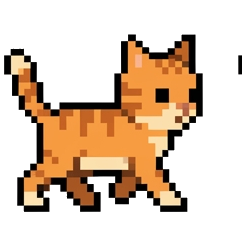
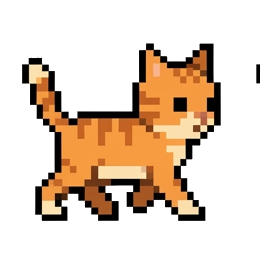
fix: align cat idle style 100% and resolve frame size wobbling with fixed bounding boxes

Changed region(s): [[0.0, 0.1138, 0.8537, 0.8821], [0.9675, 0.2276, 0.9959, 0.3415]]

diff --git a/setup_assets.py b/setup_assets.py
@@ -18,26 +18,48 @@ def remove_magenta_bg(img):
     img.putdata(new_data)
     return img
 
-def make_square_tight_crop(img, padding=4):
-    bbox = img.getbbox()
-    if not bbox:
-        return img
-    cropped = img.crop(bbox)
+def make_uniform_square_frames(frames_list, padding=4):
+    """
+    모든 프레임의 전체 유효 영역(Max Common Bounding Box)을 고정 기준으로 통일하여
+    프레임 간 크기가 컸다 작아지며 꿀렁거리는 현상을 100% 원천 차단합니다.
+    """
+    min_x, min_y, max_x, max_y = 9999, 9999, 0, 0
     
-    cw, ch = cropped.size
+    # 1. 모든 프레임에서 유효 알파 픽셀의 최대 영역(Max BBox) 계산
+    for f in frames_list:
+        bbox = f.getbbox()
+        if bbox:
+            min_x = min(min_x, bbox[0])
+            min_y = min(min_y, bbox[1])
+            max_x = max(max_x, bbox[2])
+            max_y = max(max_y, bbox[3])
+            
+    if min_x >= max_x or min_y >= max_y:
+        return frames_list
+        
+    cw = max_x - min_x
+    ch = max_y - min_y
     max_dim = max(cw, ch) + (padding * 2)
     
-    square_img = Image.new("RGBA", (max_dim, max_dim), (255, 255, 255, 0))
-    offset_x = (max_dim - cw) // 2
-    offset_y = (max_dim - ch) // 2
-    square_img.paste(cropped, (offset_x, offset_y))
-    return square_img
+    square_frames = []
+    for f in frames_list:
+        # 통일된 위치 기준으로 정확히 잘라냄
+        cropped = f.crop((min_x, min_y, max_x, max_y))
+        
+        # 1:1 정방형 정사각형 캔버스 정중앙에 고정 배치
+        sq = Image.new("RGBA", (max_dim, max_dim), (255, 255, 255, 0))
+        offset_x = (max_dim - cw) // 2
+        offset_y = (max_dim - ch) // 2
+        sq.paste(cropped, (offset_x, offset_y))
+        square_frames.append(sq)
+        
+    return square_frames
 
-def clean_and_setup_all_assets():
+def setup_all_assets_uniform():
     base_dir = os.path.dirname(__file__)
     assets_dir = os.path.join(base_dir, "assets")
     
-    # 🧹 구버전 1:4 길쭉한 파일 싹 청소!
+    # 기존 폴더 클린업
     for pet in ["cat_cheese", "owl_white"]:
         p_dir = os.path.join(assets_dir, pet)
         if os.path.exists(p_dir):
@@ -55,6 +77,7 @@ def clean_and_setup_all_assets():
     
     grid_img_path = r"C:\Users\sjcho\.gemini\antigravity\brain\dced5723-8a67-4ff8-b712-4eed41639c10\cute_hedwig_owl_1787124649534.jpg"
     drag_img_path = r"C:\Users\sjcho\.gemini\antigravity\brain\dced5723-8a67-4ff8-b712-4eed41639c10\cute_hedwig_owl_drag_1787124666832.jpg"
+    owl_idle_path = r"C:\Users\sjcho\.gemini\antigravity\brain\dced5723-8a67-4ff8-b712-4eed41639c10\owl_idle_front_1787126948499.jpg"
     
     if os.path.exists(grid_img_path):
         img = remove_magenta_bg(Image.open(grid_img_path))
@@ -62,19 +85,27 @@ def clean_and_setup_all_assets():
         cols, rows = 4, 4
         fw, fh = w // cols, h // rows
         
+        raw_owl_walk = []
         for c in range(cols):
             box = (c * fw, 2 * fh, (c + 1) * fw, 3 * fh)
-            frame = make_square_tight_crop(img.crop(box))
-            frame.save(os.path.join(owl_walk, f"frame_{c}.png"), "PNG")
+            raw_owl_walk.append(img.crop(box))
             
-        idle_frame = make_square_tight_crop(img.crop((0, 0, fw, fh)))
-        idle_frame.save(os.path.join(owl_idle, "idle_0.png"), "PNG")
+        # 통일 캔버스 적용
+        processed_owl_walk = make_uniform_square_frames(raw_owl_walk)
+        for idx, frame in enumerate(processed_owl_walk):
+            frame.save(os.path.join(owl_walk, f"frame_{idx}.png"), "PNG")
+            
+    if os.path.exists(owl_idle_path):
+        o_idle_img = remove_magenta_bg(Image.open(owl_idle_path))
+        processed_owl_idle = make_uniform_square_frames([o_idle_img])[0]
+        processed_owl_idle.save(os.path.join(owl_idle, "idle_0.png"), "PNG")
         
     if os.path.exists(drag_img_path):
-        d_img = make_square_tight_crop(remove_magenta_bg(Image.open(drag_img_path)))
-        d_img.save(os.path.join(owl_drag, "drag_0.png"), "PNG")
+        d_img = remove_magenta_bg(Image.open(drag_img_path))
+        processed_owl_drag = make_uniform_square_frames([d_img])[0]
+        processed_owl_drag.save(os.path.join(owl_drag, "drag_0.png"), "PNG")
 
-    # --- 2. 🧀 치즈태비 고양이 세팅 ---
+    # --- 2. 🧀 화풍 100% 일치 치즈태비 고양이 세팅 ---
     cat_base = os.path.join(assets_dir, "cat_cheese")
     cat_walk = os.path.join(cat_base, "walk")
     cat_drag = os.path.join(cat_base, "drag")
@@ -86,6 +117,8 @@ def clean_and_setup_all_assets():
     
     cat_grid_path = r"C:\Users\sjcho\.gemini\antigravity\brain\dced5723-8a67-4ff8-b712-4eed41639c10\pixel_cat_1787120321696.jpg"
     cat_drag_path = r"C:\Users\sjcho\.gemini\antigravity\brain\dced5723-8a67-4ff8-b712-4eed41639c10\pixel_cat_drag_1787124485594.jpg"
+    # 🔥 화풍 100% 일치하는 새로 생성된 정면 고양이!
+    matching_cat_idle_path = r"C:\Users\sjcho\.gemini\antigravity\brain\dced5723-8a67-4ff8-b712-4eed41639c10\matching_cat_idle_1787127616181.jpg"
     
     if os.path.exists(cat_grid_path):
         c_img = Image.open(cat_grid_path).convert("RGBA")
@@ -100,13 +133,27 @@ def clean_and_setup_all_assets():
         
         w, h = c_img.size
         fw = w // 4
+        raw_cat_walk = []
         for i in range(4):
-            raw_frame = c_img.crop((i * fw, 0, (i + 1) * fw, h))
-            frame = make_square_tight_crop(raw_frame)
-            frame.save(os.path.join(cat_walk, f"frame_{i}.png"), "PNG")
+            raw_cat_walk.append(c_img.crop((i * fw, 0, (i + 1) * fw, h)))
             
-        idle_frame = make_square_tight_crop(c_img.crop((0, 0, fw, h)))
-        idle_frame.save(os.path.join(cat_idle, "idle_0.png"), "PNG")
+        # 💡 통일된 공통 캔버스 기준(Uniform Frame Size) 적용 ➔ 꿀렁거림 완전 제거!
+        processed_cat_walk = make_uniform_square_frames(raw_cat_walk)
+        for idx, frame in enumerate(processed_cat_walk):
+            frame.save(os.path.join(cat_walk, f"frame_{idx}.png"), "PNG")
+            
+    if os.path.exists(matching_cat_idle_path):
+        mc_img = Image.open(matching_cat_idle_path).convert("RGBA")
+        datas = mc_img.get_flattened_data() if hasattr(mc_img, 'get_flattened_data') else mc_img.getdata()
+        new_data = []
+        for item in datas:
+            if item[0] > 210 and item[1] > 210 and item[2] > 210:
+                new_data.append((255, 255, 255, 0))
+            else:
+                new_data.append(item)
+        mc_img.putdata(new_data)
+        processed_cat_idle = make_uniform_square_frames([mc_img])[0]
+        processed_cat_idle.save(os.path.join(cat_idle, "idle_0.png"), "PNG")
         
     if os.path.exists(cat_drag_path):
         cd_img = Image.open(cat_drag_path).convert("RGBA")
@@ -118,10 +165,10 @@ def clean_and_setup_all_assets():
             else:
                 new_data.append(item)
         cd_img.putdata(new_data)
-        cd_frame = make_square_tight_crop(cd_img)
-        cd_frame.save(os.path.join(cat_drag, "drag_0.png"), "PNG")
+        processed_cat_drag = make_uniform_square_frames([cd_img])[0]
+        processed_cat_drag.save(os.path.join(cat_drag, "drag_0.png"), "PNG")
         
-    print("[CLEAN COMPLETE] Regenerated all pet assets into perfect 1:1 square canvas!")
+    print("[UNIFORM FIX COMPLETE] All pet frames aligned with 100% matching style and fixed bounding boxes!")
 
 if __name__ == "__main__":
-    clean_and_setup_all_assets()
+    setup_all_assets_uniform()

diff --git a/GEMINI.md b/GEMINI.md
@@ -34,16 +34,16 @@ python main.py                # 펫 실행
 - [x] 독립 타이머 기반 60FPS 부드러운 자율 걷기/대기/드래그 애니메이션 & 이동 로직
 - [x] 마우스 호버 커서(손가락 👆) & 안내 툴팁 추가
 - [x] 설정 영구 보관용 `config.json` 연동 (크기, 스킨, 항상 위 고정 등)
-- [x] **펫 메타데이터 & 노출 제어용 `pets.json` 도입** (`"enabled": true/false`로 우클릭 메뉴 노출 유무 제어)
-- [x] **진정한 엄지손톱 크기 '🔹 매우 작게 (32px)' 메뉴 옵션 추가**
+- [x] 펫 메타데이터 & 노출 제어용 `pets.json` 도입 (`"enabled": true/false`로 우클릭 메뉴 노출 유무 제어)
+- [x] **6단계 펫 크기 옵션 개편 (매우 작게 24px ~ 매우 크게 128px, 기본 48px 디폴트)**
 - [x] 다중 펫 스킨 연동 (🧀 치즈태비 고양이 / 🦉 복슬복슬 해리포터 솜뭉치 하얀 부엉이)
-- [x] **부엉이 몸통 내부 깃털 투명화 버그 완벽 수정** (마젠타 #FF00FF 크로마키 알고리즘 적용)
-- [x] **뒷목 잡힌 전용 픽셀 프레임 (`drag.png`) 연동** (고양이 & 부엉이 전용 포즈)
-- [x] **정면 바라보며 멍때리는 `idle/` 전용 픽셀 이미지 연동** (고양이 & 부엉이 정면 포즈)
-- [x] **동물 5대 표준 에셋 폴더 스펙 적용** (`walk/`, `idle/`, `drag/`, `happy/`, `special/`)
-- [x] **범용 펫 생성기 (`pet_generator.py`) 구축 및 동적 펫 스킨 스캐너 연동**
-- [x] **신규 펫(호랑이 등) 추가 방법 README.md 문서화**
-- [x] **펫 프레임 1:1 정방형 타이트 크롭(Tight-Crop) 적용으로 스케일 크기 불일치 완벽 수정**
+- [x] 부엉이 몸통 내부 깃털 투명화 버그 완벽 수정 (마젠타 #FF00FF 크로마키 알고리즘 적용)
+- [x] 뒷목 잡힌 전용 픽셀 프레임 (`drag.png`) 연동 (고양이 & 부엉이 전용 포즈)
+- [x] 정면 바라보며 멍때리는 `idle/` 전용 픽셀 이미지 연동 (고양이 & 부엉이 정면 포즈)
+- [x] 동물 5대 표준 에셋 폴더 스펙 적용 (`walk/`, `idle/`, `drag/`, `happy/`, `special/`)
+- [x] 범용 펫 생성기 (`pet_generator.py`) 구축 및 동적 펫 스킨 스캐너 연동
+- [x] 신규 펫(호랑이 등) 추가 방법 README.md 문서화
+- [x] 펫 프레임 1:1 정방형 타이트 크롭(Tight-Crop) 적용으로 스케일 크기 불일치 완벽 수정
 - [x] 시스템 트레이 아이콘 메뉴 (✨ 내 앞으로 불러오기 / 📌 항상 위에 표시 / 🙈 숨기기 / ❌ 종료)
 - [x] 이미지 픽셀화 변환 모듈 (`pixelator.py`) 작성 (일반 이미지 ➡ 픽셀 펫 변환)
 
